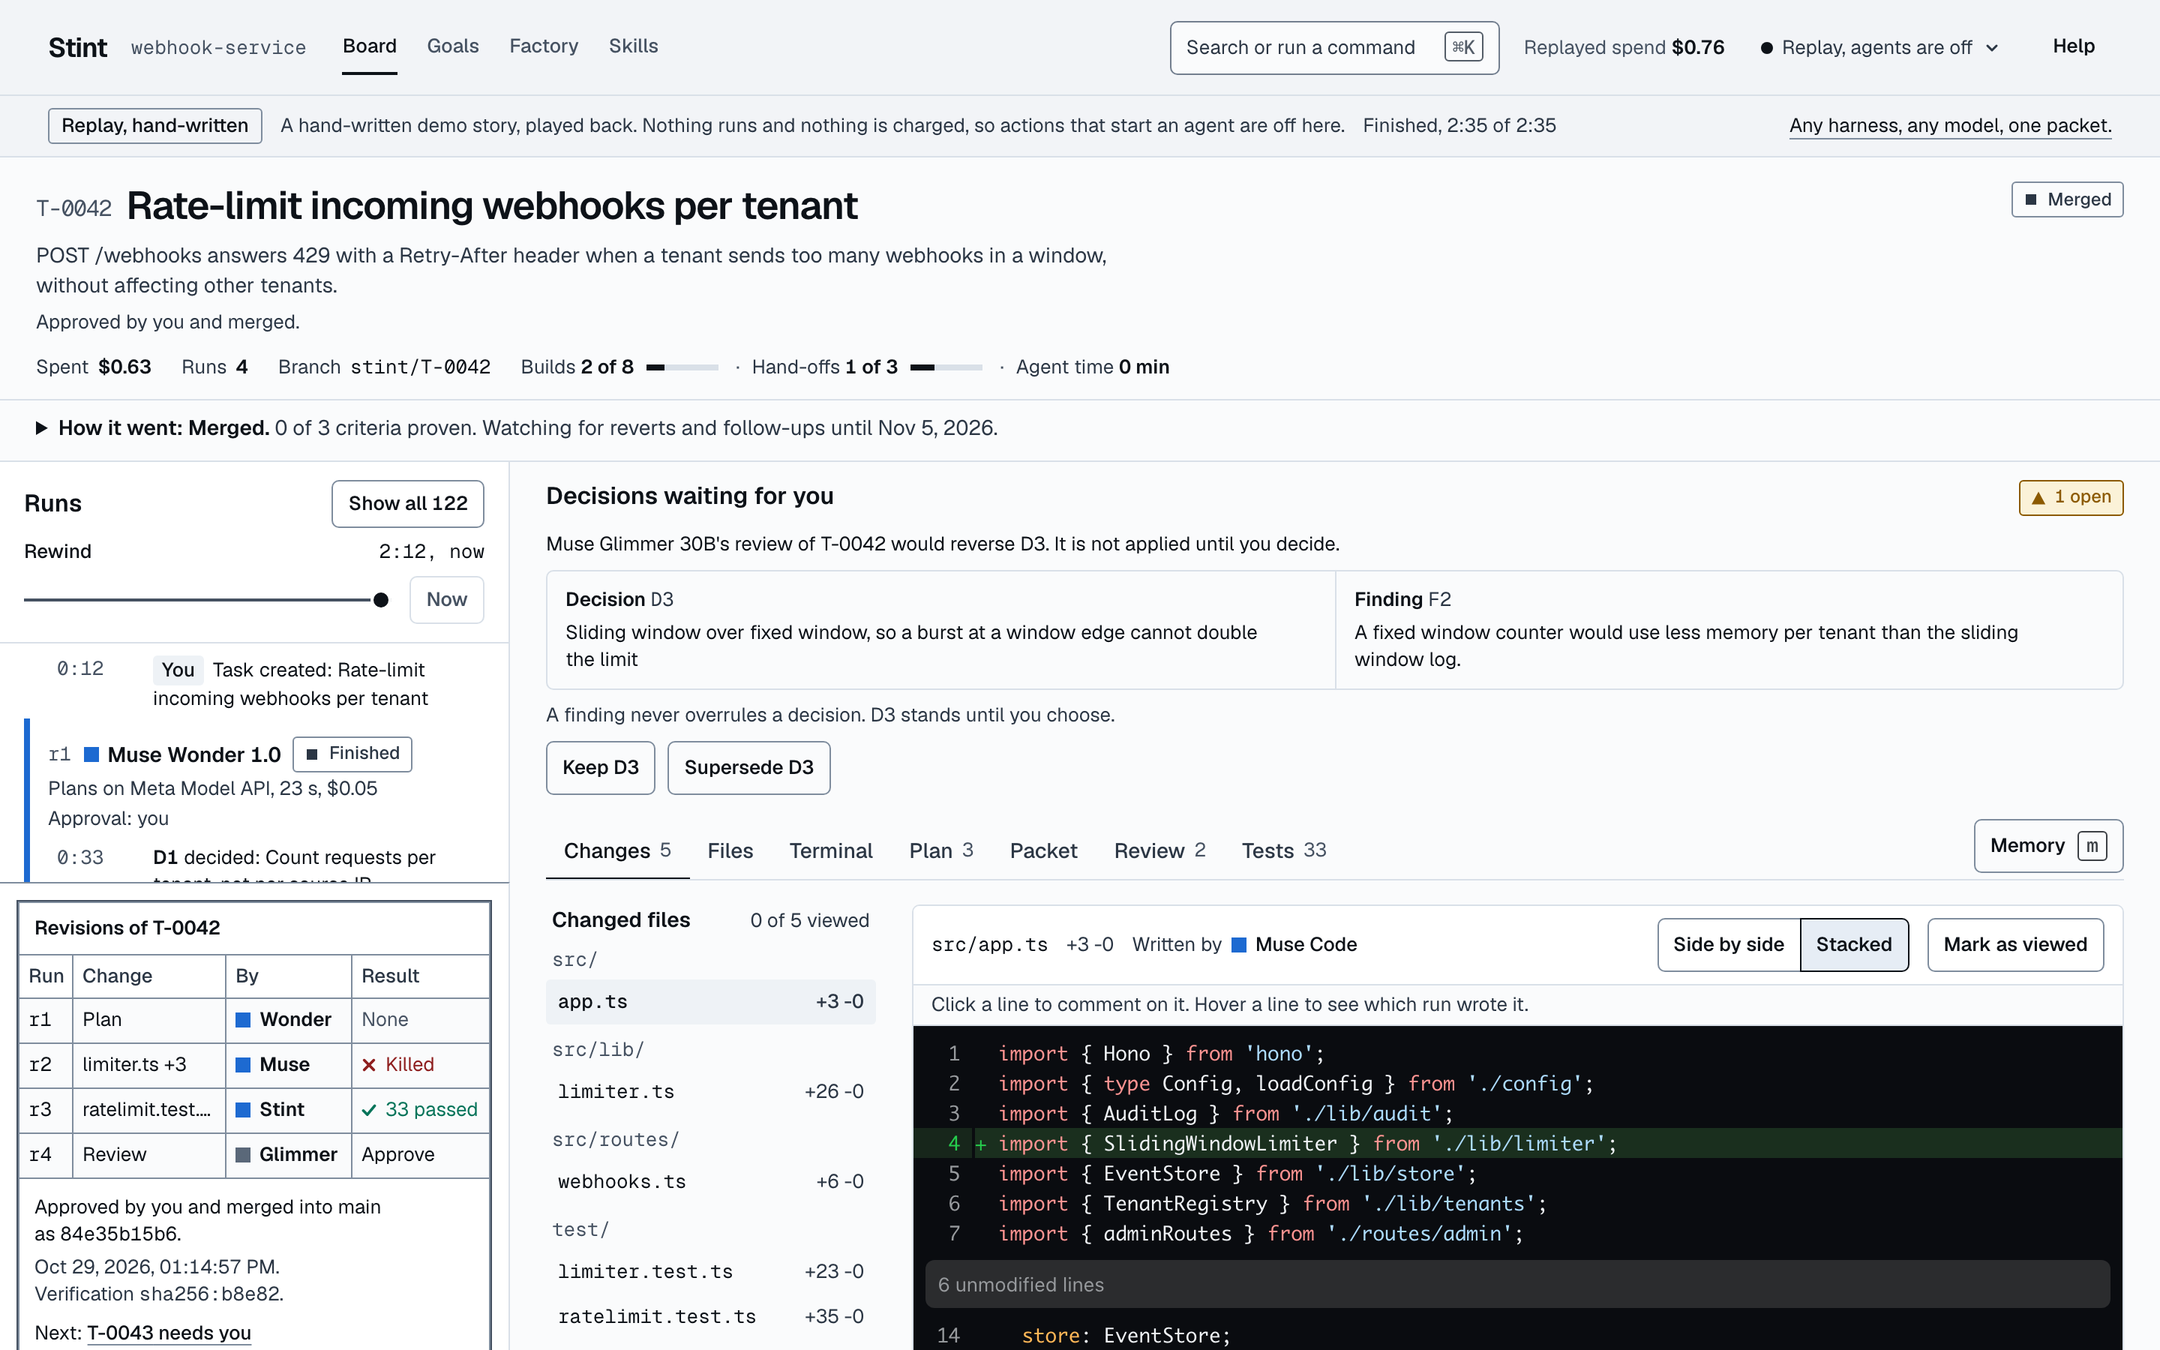
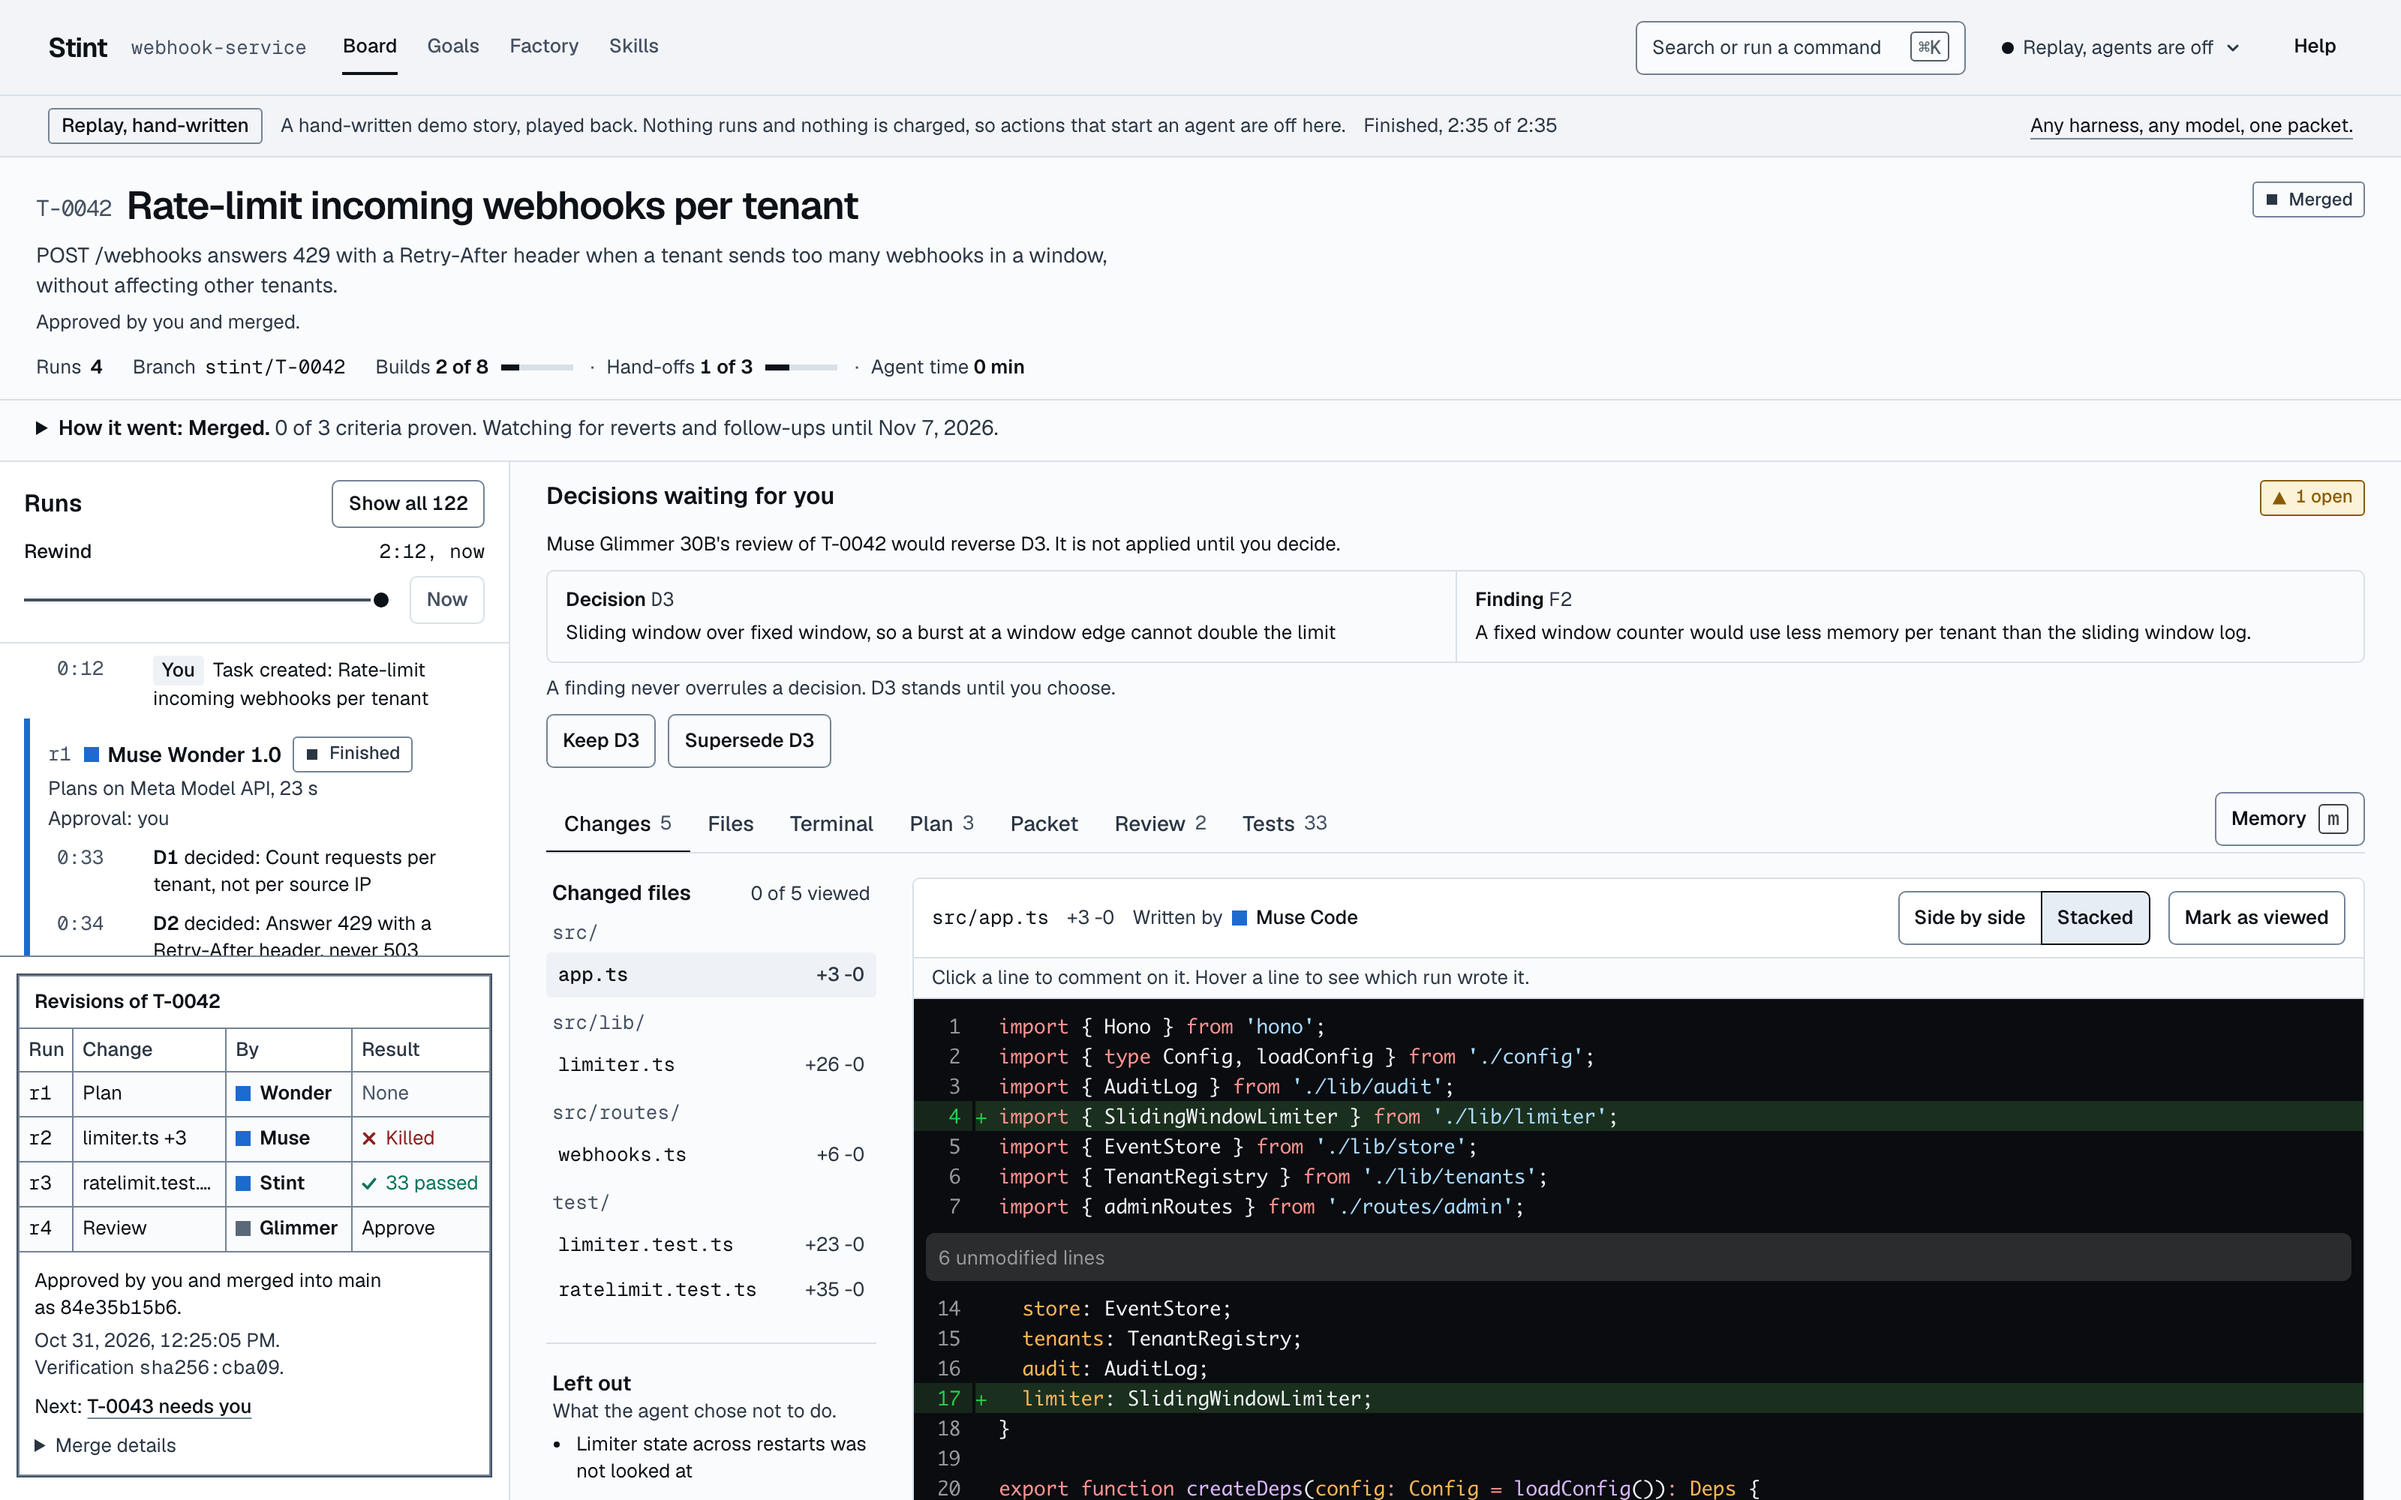
The README, docs and landing page screenshots show today's UI, with no money outside a spend limit, and the screenshot script sets the theme itself: dark for the README's dark page and the landing page, light for its light page
Spec: R-074

diff --git a/apps/web/scripts/shots.ts b/apps/web/scripts/shots.ts
@@ -1,7 +1,8 @@
 // Screenshots of every screen from a replay daemon, at 1600x1000 (deviceScaleFactor 2) and at 390x844, to compare with the design.
 // Usage, from the repository root, with a replay daemon serving the built UI (STINT_E2E_PORT=4601 bun apps/web/e2e/serve.ts):
 //   bun apps/web/scripts/shots.ts [--url http://127.0.0.1:4601] [--out .loop/ui-shots] [--assets]
-// --assets also writes assets/screenshot-task.png and assets/screenshot-factory.png.
+// --assets also writes assets/screenshot-task.png and assets/screenshot-factory.png in the dark theme, and
+// assets/screenshot-task-light.png, the README's picture for a light page.
 import { mkdirSync } from 'node:fs';
 import { join, resolve } from 'node:path';
 import { type Page, chromium } from '@playwright/test';
@@ -70,15 +71,17 @@ for (const [size, viewport, scale] of [
   await shot('factory', '/factory', true, () => graphDone(page));
   await shot('skills', '/skills');
   if (size === '1600' && process.argv.includes('--assets')) {
-    await page.goto(`${url}/t/T-0042`);
-    await settle(page);
-    await graphDone(page);
-    await page.screenshot({ path: join(root, 'assets', 'screenshot-task.png') });
-    await page.goto(`${url}/factory`);
-    await settle(page);
-    await graphDone(page);
-    await page.screenshot({ path: join(root, 'assets', 'screenshot-factory.png') });
-    process.stdout.write('assets/screenshot-task.png assets/screenshot-factory.png\n');
+    const asset = async (path: string, file: string, scheme: 'dark' | 'light') => {
+      await page.emulateMedia({ colorScheme: scheme });
+      await page.goto(`${url}${path}`);
+      await settle(page);
+      await graphDone(page);
+      await page.screenshot({ path: join(root, 'assets', file) });
+    };
+    await asset('/t/T-0042', 'screenshot-task.png', 'dark');
+    await asset('/t/T-0042', 'screenshot-task-light.png', 'light');
+    await asset('/factory', 'screenshot-factory.png', 'dark');
+    process.stdout.write('assets/screenshot-task.png assets/screenshot-task-light.png assets/screenshot-factory.png\n');
   }
   await context.close();
 }
